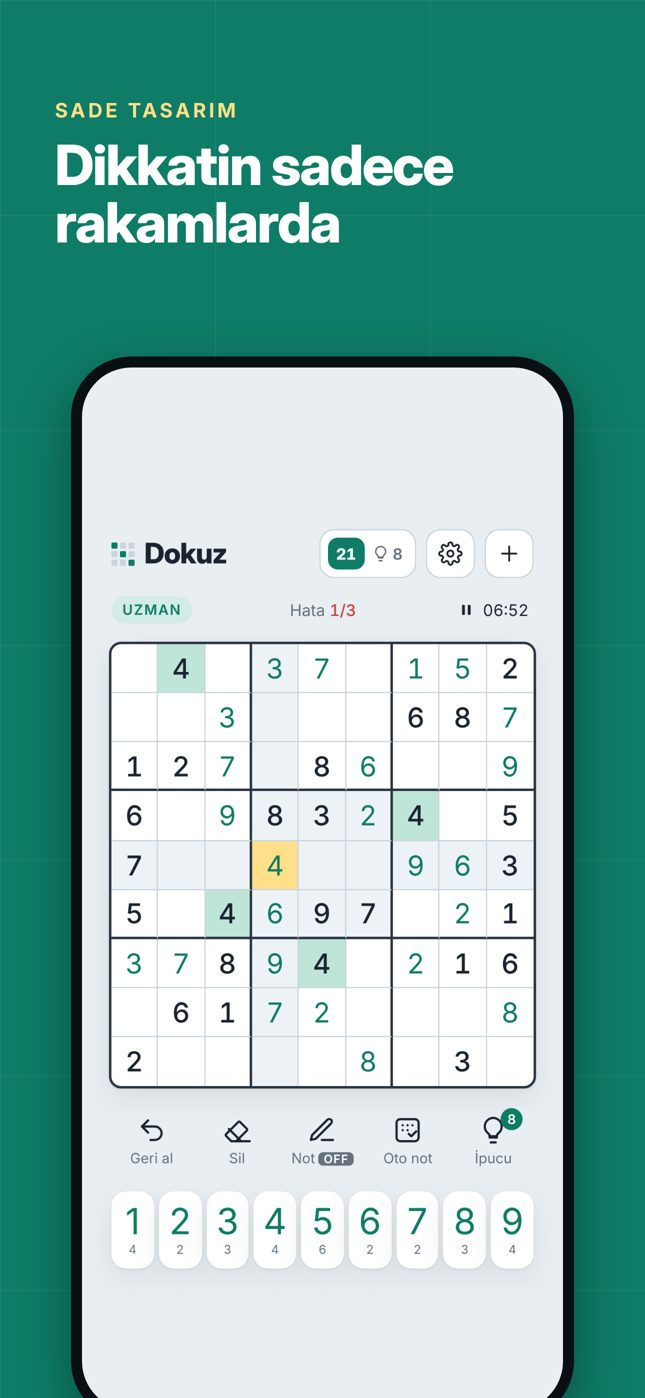
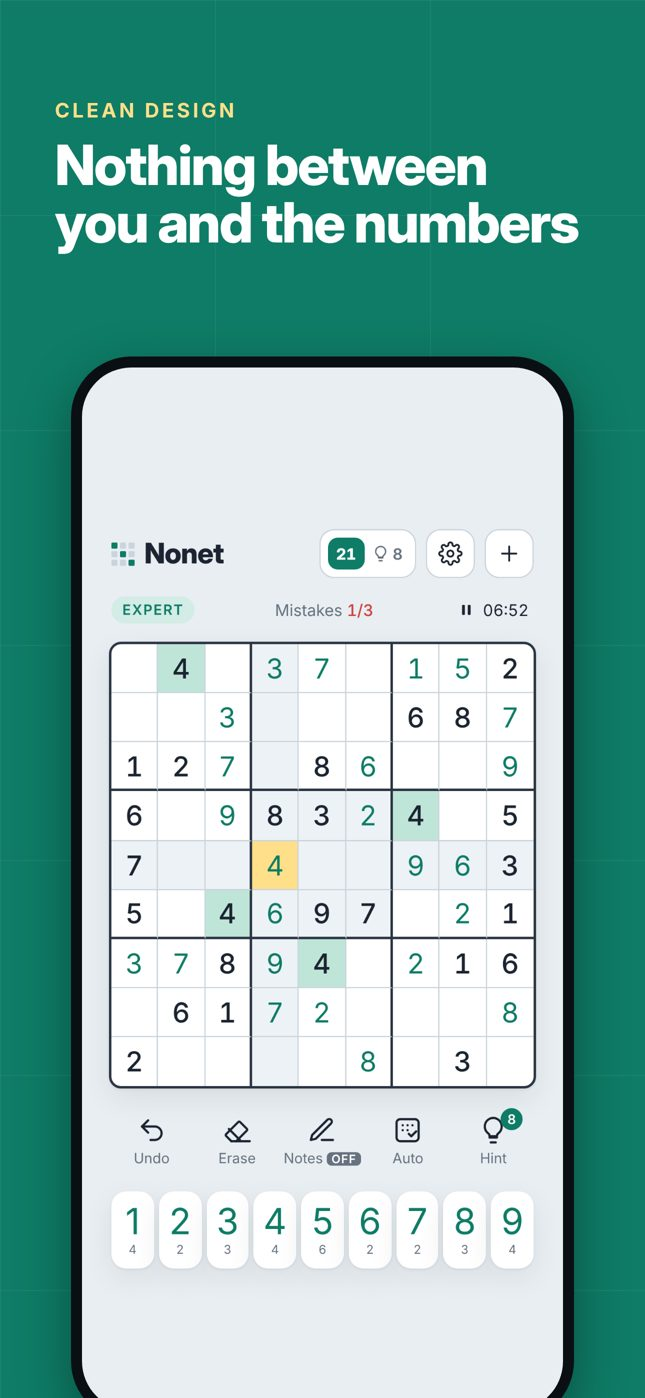
Add files via upload

diff --git a/privacy.html b/privacy.html
@@ -3,7 +3,7 @@
 <head>
 <meta charset="utf-8">
 <meta name="viewport" content="width=device-width,initial-scale=1,viewport-fit=cover">
-<title>Dokuz Sudoku Gizlilik</title>
+<title>Nonet Sudoku Gizlilik</title>
 <style>
 /* Layout: tek sütun yasal metin, 64ch genişlik, üstte marka ve dil seçici */
 :root{
@@ -44,7 +44,7 @@ footer{margin-top:40px;padding-top:16px;border-top:1px solid var(--line);color:v
 
 <div class="wrap">
   <div class="top">
-    <div class="brand"><i><b></b><b></b><b></b><b></b><b></b><b></b><b></b><b></b><b></b></i>Dokuz Sudoku</div>
+    <div class="brand"><i><b></b><b></b><b></b><b></b><b></b><b></b><b></b><b></b><b></b></i>Nonet Sudoku</div>
     <div class="seg" role="group" aria-label="Dil / Language">
       <button id="btn-tr" aria-pressed="true">TR</button>
       <button id="btn-en" aria-pressed="false">EN</button>
@@ -54,10 +54,10 @@ footer{margin-top:40px;padding-top:16px;border-top:1px solid var(--line);color:v
   <article id="tr" lang="tr">
     <h1>Gizlilik Politikası</h1>
     <p class="meta">Yürürlük tarihi: 25 Ekim 2026</p>
-    <div class="summary"><strong>Kısaca</strong><p>Dokuz Sudoku hesap istemez ve senden kişisel bilgi toplamaz. Oyun ilerlemen yalnızca kendi cihazında saklanır. Uygulama ücretsiz kalsın diye Google AdMob reklamları gösterir; AdMob reklam sunmak için bazı cihaz verilerini işler.</p></div>
+    <div class="summary"><strong>Kısaca</strong><p>Nonet Sudoku hesap istemez ve senden kişisel bilgi toplamaz. Oyun ilerlemen yalnızca kendi cihazında saklanır. Uygulama ücretsiz kalsın diye Google AdMob reklamları gösterir; AdMob reklam sunmak için bazı cihaz verilerini işler.</p></div>
 
     <h2>1. Biz kimiz</h2>
-    <p>Dokuz Sudoku, bağımsız geliştirici Cihan tarafından yayınlanan bir bulmaca oyunudur. Bu politika uygulamanın Android ve iOS sürümleri için geçerlidir.</p>
+    <p>Nonet Sudoku, bağımsız geliştirici Cihan tarafından yayınlanan bir bulmaca oyunudur. Bu politika uygulamanın Android ve iOS sürümleri için geçerlidir.</p>
 
     <h2>2. Uygulamanın kendisinin topladığı veriler</h2>
     <p>Uygulama ad, e-posta, telefon numarası, rehber, fotoğraf veya kesin konum gibi kişisel bilgiler istemez ve toplamaz. Hesap oluşturma yoktur.</p>
@@ -99,10 +99,10 @@ footer{margin-top:40px;padding-top:16px;border-top:1px solid var(--line);color:v
   <article id="en" lang="en" hidden>
     <h1>Privacy Policy</h1>
     <p class="meta">Effective date: October 25, 2026</p>
-    <div class="summary"><strong>In short</strong><p>Dokuz Sudoku needs no account and does not collect personal information from you. Your game progress stays on your device. To keep the app free, it shows Google AdMob ads, and AdMob processes some device data to serve them.</p></div>
+    <div class="summary"><strong>In short</strong><p>Nonet Sudoku needs no account and does not collect personal information from you. Your game progress stays on your device. To keep the app free, it shows Google AdMob ads, and AdMob processes some device data to serve them.</p></div>
 
     <h2>1. Who we are</h2>
-    <p>Dokuz Sudoku is a puzzle game published by independent developer Cihan. This policy covers the Android and iOS versions of the app.</p>
+    <p>Nonet Sudoku is a puzzle game published by independent developer Cihan. This policy covers the Android and iOS versions of the app.</p>
 
     <h2>2. Data the app itself collects</h2>
     <p>The app does not ask for or collect personal information such as your name, email, phone number, contacts, photos or precise location. There are no accounts.</p>
@@ -141,7 +141,7 @@ footer{margin-top:40px;padding-top:16px;border-top:1px solid var(--line);color:v
     <p>Email: <span class="mail">cihansoylular@gmail.com</span></p>
   </article>
 
-  <footer>© 2026 Dokuz Sudoku</footer>
+  <footer>© 2026 Nonet Sudoku</footer>
 </div>
 
 <script>

diff --git a/index.html b/index.html
@@ -1,10 +1,10 @@
 <!doctype html>
-<html lang="tr">
+<html lang="en">
 <head>
 <meta charset="utf-8">
 <meta name="viewport" content="width=device-width,initial-scale=1,viewport-fit=cover">
-<title>Dokuz Sudoku</title>
-<meta name="description" content="Dokuz Sudoku: 6 seviye, günün bulmacası, not modu ve ipucuyla sade bir Sudoku oyunu. Android ve iPhone için.">
+<title>Nonet Sudoku</title>
+<meta name="description" content="Nonet Sudoku: a clean Sudoku with 6 difficulties, a daily puzzle and levels that unlock tools. For Android and iPhone.">
 <link rel="icon" href="icon.png">
 <style>
 :root{--bg:#0E7C66;--ink:#FFFFFF;--soft:rgba(255,255,255,.78);--amber:#FFDF8A;--grid:rgba(255,255,255,.06);
@@ -29,22 +29,22 @@ footer a{color:var(--ink)}
 <body>
 <main class="wrap">
   <div>
-    <img class="icon" src="icon.png" alt="Dokuz Sudoku ikonu">
+    <img class="icon" src="icon.png" alt="Nonet Sudoku icon">
     <div class="eb">ANDROID · IPHONE</div>
-    <h1>Dokuz Sudoku</h1>
-    <p>6 zorluk seviyesi, her gün yeni bir bulmaca, not modu ve ipucu. Dikkatini dağıtacak hiçbir şey olmadan, sadece sen ve rakamlar.</p>
+    <h1>Nonet Sudoku</h1>
+    <p>Six difficulties, a fresh puzzle every day, pencil marks and hints. Nothing between you and the numbers.</p>
     <div class="stores">
       <!-- Yayınlanınca: class="store soon" yerine class="store" yap ve href'e mağaza bağlantısını yaz -->
-      <a class="store soon" href="#"><span>Yakında</span><b>Google Play</b></a>
-      <a class="store soon" href="#"><span>Yakında</span><b>App Store</b></a>
+      <a class="store soon" href="#"><span>Coming soon</span><b>Google Play</b></a>
+      <a class="store soon" href="#"><span>Coming soon</span><b>App Store</b></a>
     </div>
   </div>
-  <img class="shot" src="shot.jpg" alt="Dokuz Sudoku oyun ekranı">
+  <img class="shot" src="shot.jpg" alt="Nonet Sudoku game screen">
 </main>
 <footer>
-  <span>© 2026 Dokuz Sudoku</span>
-  <a href="privacy.html">Gizlilik Politikası</a>
+  <span>© 2026 Nonet Sudoku</span>
   <a href="privacy.html#en">Privacy Policy</a>
+  <a href="privacy.html#tr">Gizlilik Politikası</a>
 </footer>
 </body>
 </html>
